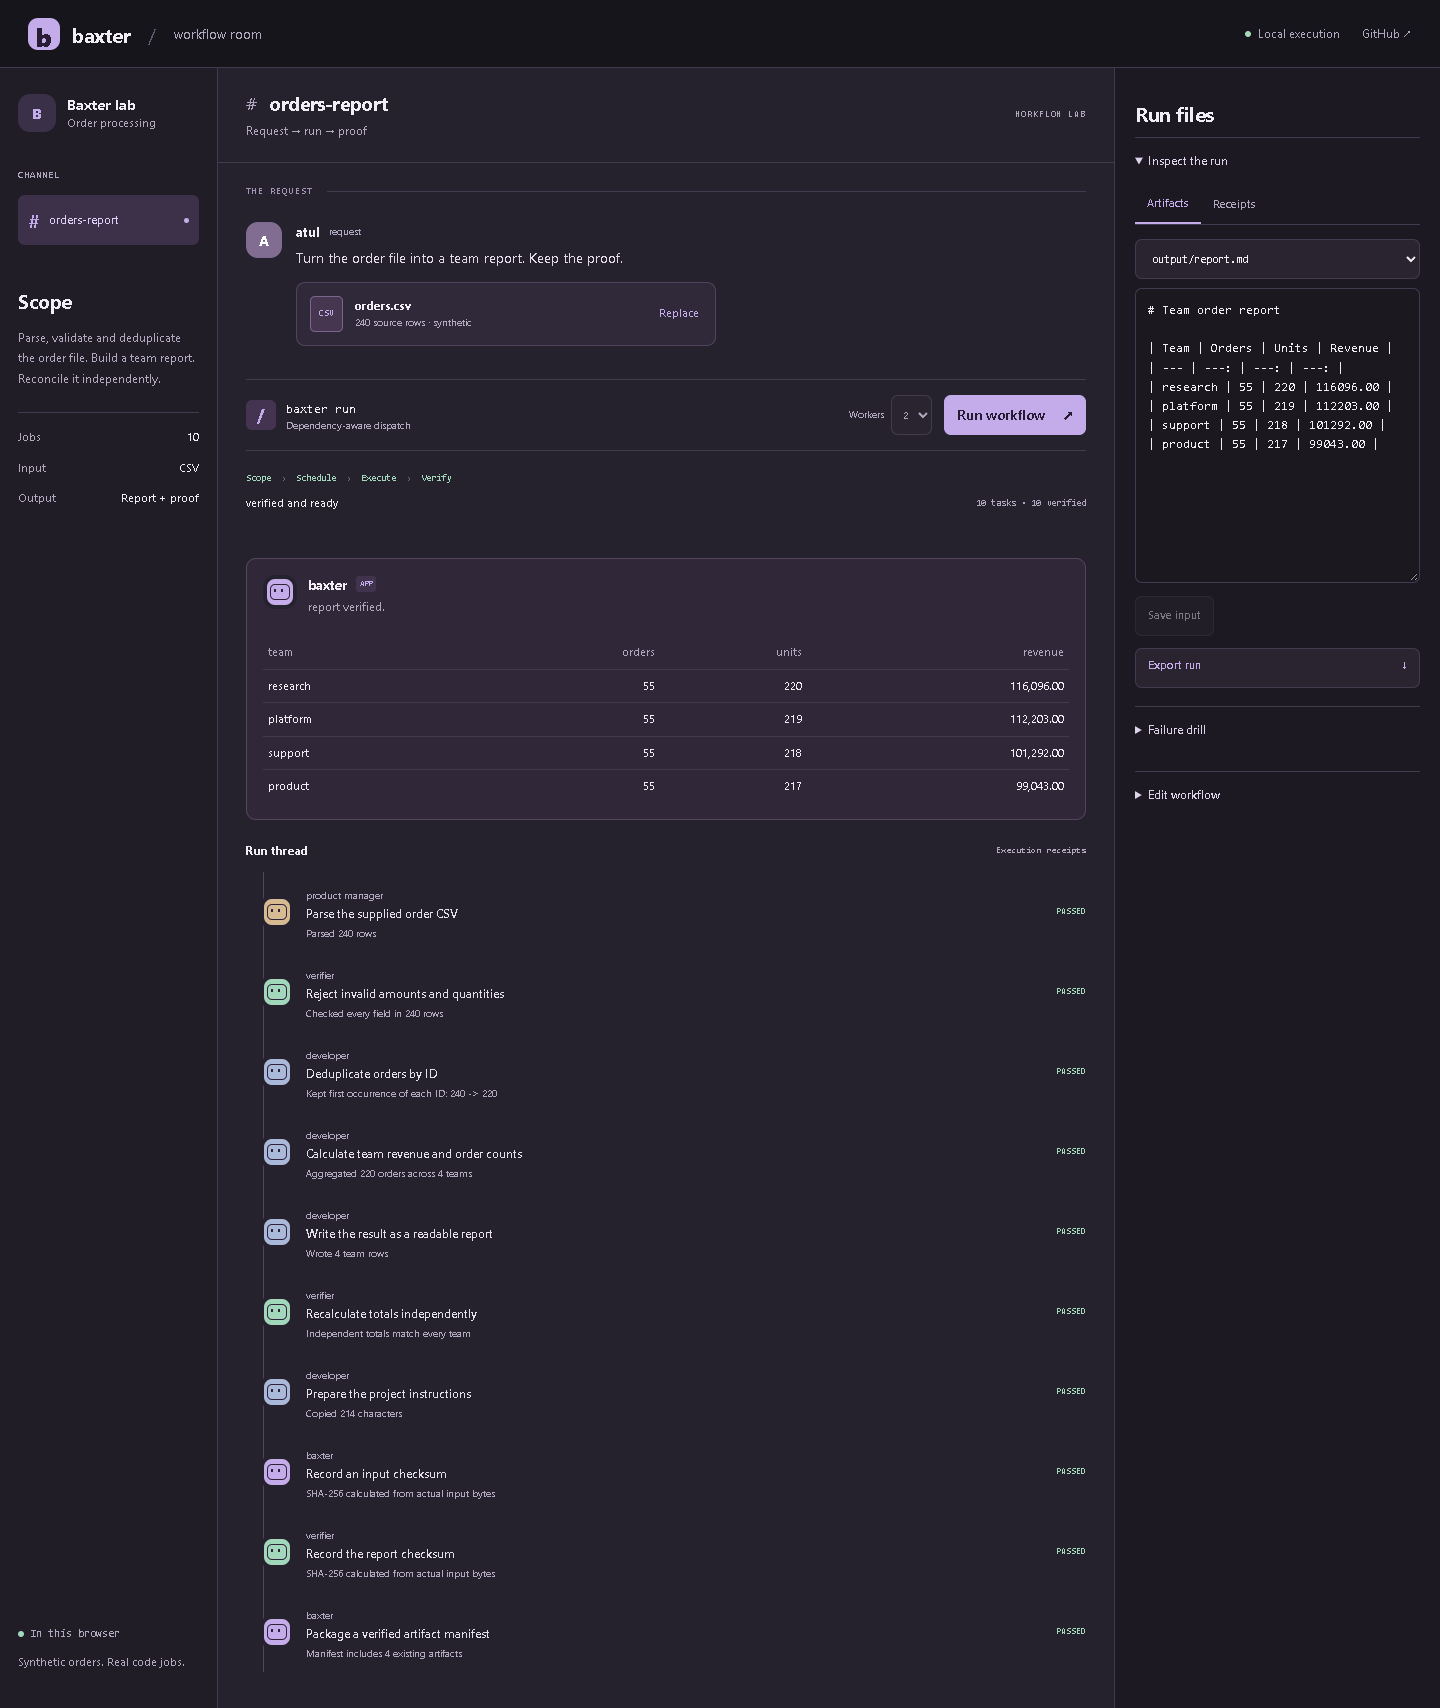
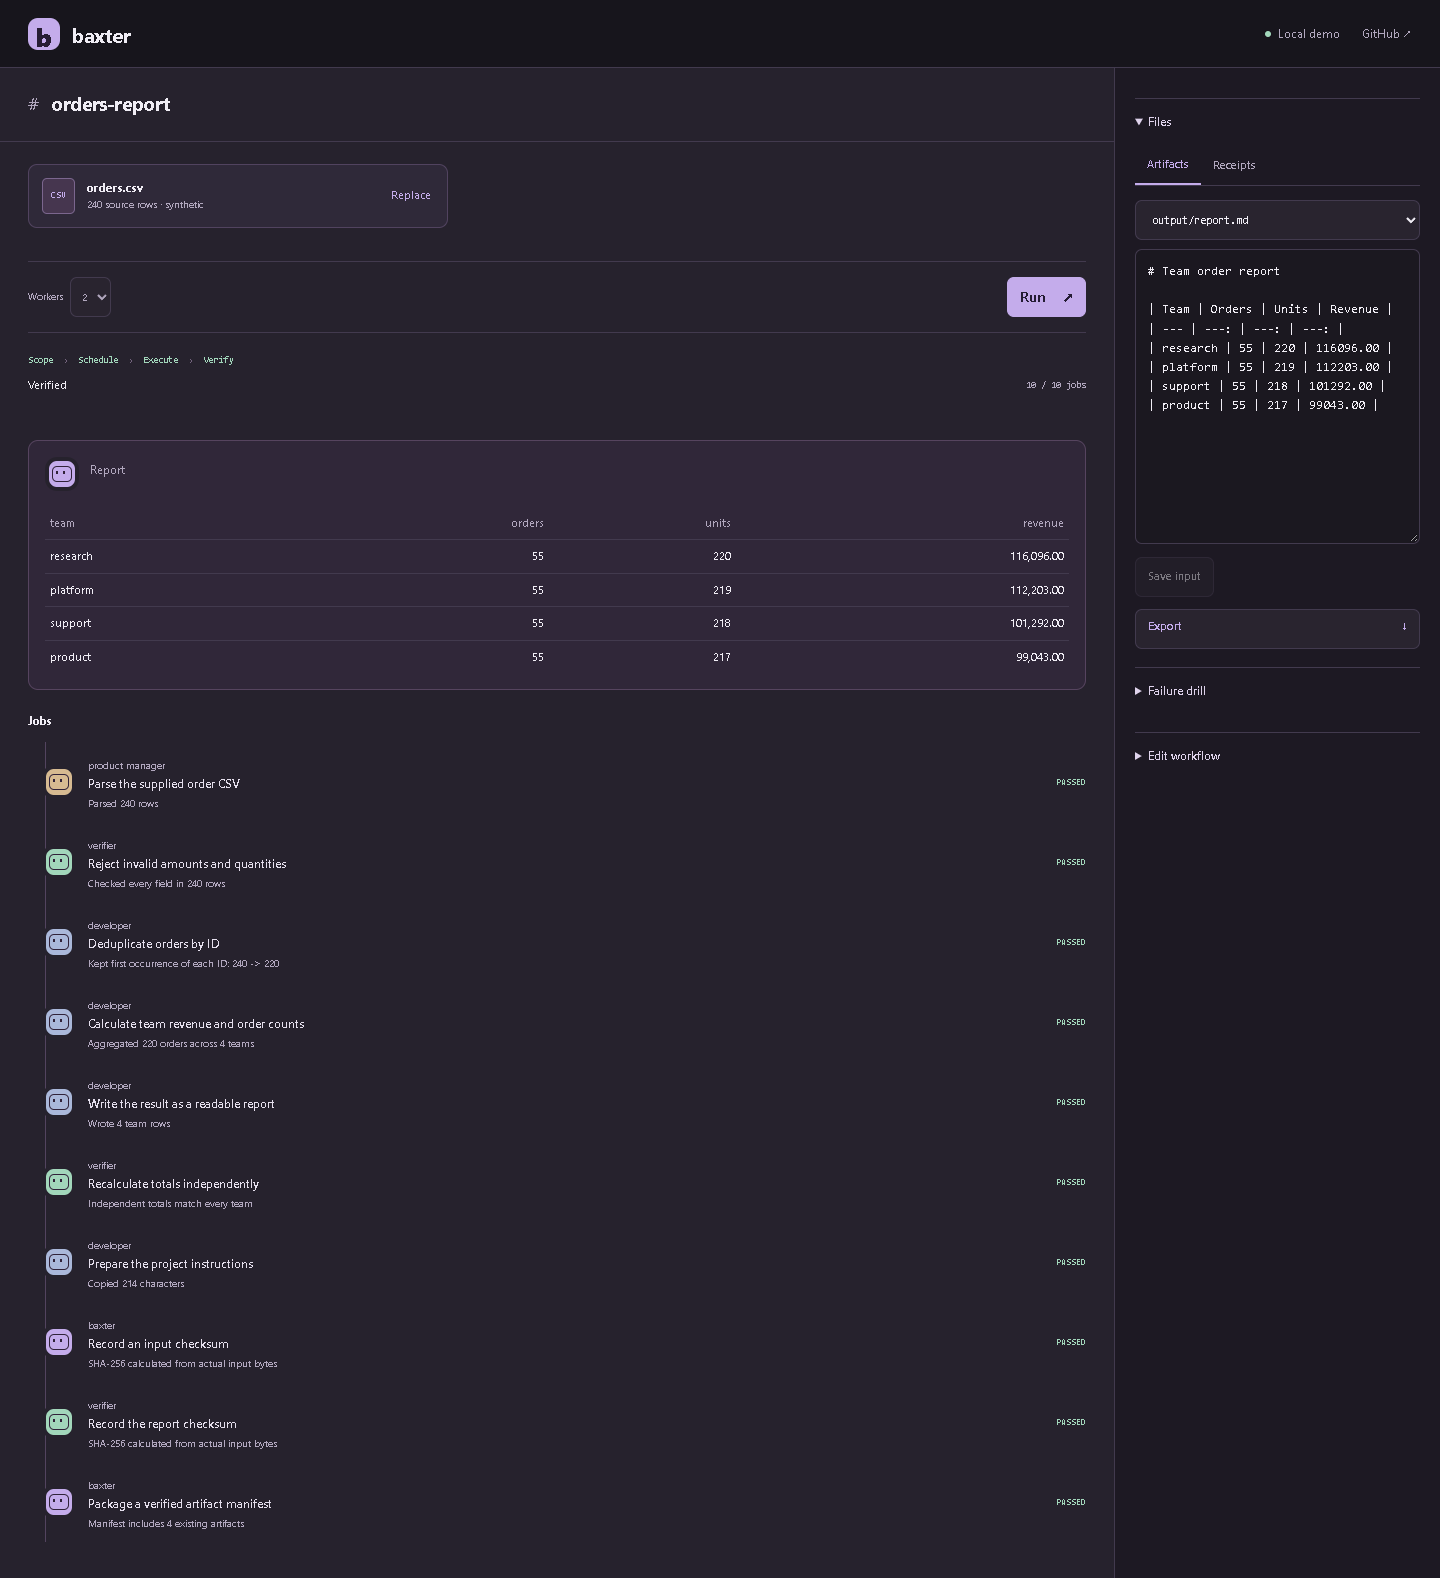
Cull workflow demo chrome and repeated copy

diff --git a/examples/portfolio/index.html b/examples/portfolio/index.html
@@ -1,11 +1,11 @@
 <!doctype html>
 <html lang="en"><head><meta charset="utf-8"><meta name="viewport" content="width=device-width,initial-scale=1"><meta name="theme-color" content="#19171e"><title>Baxter | Workflow room</title><link rel="icon" href="assets/favicon.svg" type="image/svg+xml"><link rel="stylesheet" href="style.css"></head>
-<body><header class="app-header"><a class="brand" href="https://lolstar123.github.io/just-a-little-further/"><span class="brand-mark">b</span>baxter<span class="brand-divider">/</span><span class="brand-context">workflow room</span></a><div class="header-links"><span class="local-badge">Local execution</span><a href="https://github.com/LolStar123/baxter">GitHub ↗</a></div></header>
-<main class="workspace"><aside class="scope-rail" aria-label="Workflow scope"><div class="workspace-name"><span class="room-icon">B</span><div><strong>Baxter lab</strong><small>Order processing</small></div></div><p class="eyebrow">CHANNEL</p><a class="channel-link" href="#channel"><span>#</span> orders-report <span class="live-dot"></span></a><section class="scope"><h2>Scope</h2><p>Parse, validate and deduplicate the order file. Build a team report. Reconcile it independently.</p><dl><div><dt>Jobs</dt><dd id="scope-jobs">10</dd></div><div><dt>Input</dt><dd>CSV</dd></div><div><dt>Output</dt><dd>Report + proof</dd></div></dl></section><div class="rail-footer"><span class="local-dot"></span> In this browser<p>Synthetic orders. Real code jobs.</p></div></aside>
-<section class="channel" id="channel" aria-labelledby="page-title"><div class="channel-head"><div><h1 id="page-title"><span>#</span> orders-report</h1><p>Request → run → proof</p></div><span class="channel-label">WORKFLOW LAB</span></div>
-<div class="conversation"><div class="thread-divider"><span>THE REQUEST</span></div><div class="request-message"><span class="atul-avatar" aria-hidden="true">A</span><div><div class="message-author"><strong>atul</strong><span>request</span></div><p>Turn the order file into a team report. Keep the proof.</p><div class="attachment"><span class="file-icon" aria-hidden="true">CSV</span><div><strong id="input-name">orders.csv</strong><small id="input-meta">240 source rows · synthetic</small></div><label class="attach-action">Replace<input id="input-file" type="file" accept=".csv,text/csv" aria-label="Replace order CSV"></label></div><p id="input-status" role="status"></p></div></div>
-<section class="run-bar" aria-label="Run controls"><div class="slash-command"><span>/</span><div><strong>baxter run</strong><small>Dependency-aware dispatch</small></div></div><label>Workers<select id="capacity" aria-label="Worker capacity"><option>1</option><option selected>2</option><option>3</option><option>4</option></select></label><button id="run" class="primary" disabled>Run workflow <span aria-hidden="true">↗</span></button><span id="progress"></span></section>
+<body><header class="app-header"><a class="brand" href="https://lolstar123.github.io/just-a-little-further/"><span class="brand-mark">b</span>baxter</a><div class="header-links"><span class="local-badge">Local demo</span><a href="https://github.com/LolStar123/baxter">GitHub ↗</a></div></header>
+<main class="workspace">
+<section class="channel" id="channel" aria-labelledby="page-title"><div class="channel-head"><div><h1 id="page-title"><span>#</span> orders-report</h1></div></div>
+<div class="conversation"><div class="request-message"><div><div class="attachment"><span class="file-icon" aria-hidden="true">CSV</span><div><strong id="input-name">orders.csv</strong><small id="input-meta">240 source rows · synthetic</small></div><label class="attach-action">Replace<input id="input-file" type="file" accept=".csv,text/csv" aria-label="Replace order CSV"></label></div><p id="input-status" role="status"></p></div></div>
+<section class="run-bar" aria-label="Run controls"><label>Workers<select id="capacity" aria-label="Worker capacity"><option>1</option><option selected>2</option><option>3</option><option>4</option></select></label><button id="run" class="primary" disabled>Run <span aria-hidden="true">↗</span></button></section>
 <div class="workflow-map" aria-label="Workflow stages"><span data-beat="scope">Scope</span><i aria-hidden="true">›</i><span data-beat="schedule">Schedule</span><i aria-hidden="true">›</i><span data-beat="execute">Execute</span><i aria-hidden="true">›</i><span data-beat="verify">Verify</span></div><div class="run-ledger"><span id="run-phase" role="status" aria-live="polite">Loading workflow</span><span id="run-count"></span></div><p id="status" role="status" aria-live="polite"></p>
-<section class="queue" aria-labelledby="queue-title"><div class="section-title"><h2 id="queue-title">Run thread</h2><span>Execution receipts</span></div><div id="tasks"></div></section>
-<section class="report-preview" aria-label="Report handoff"><div class="report-intro"><span class="baxter-avatar" aria-hidden="true"></span><div><div class="message-author"><strong>baxter</strong><small>APP</small></div><p id="output-summary">Run the workflow to produce a report.</p></div></div><div id="report-preview" hidden></div></section></div></section>
-<aside class="proof-rail" aria-label="Artifacts and verification"><div class="proof-heading"><h2>Run files</h2></div><details class="inspector" open><summary>Inspect the run</summary><div class="tabs"><button id="show-artifacts" aria-pressed="true">Artifacts</button><button id="show-receipts" aria-pressed="false">Receipts</button></div><div id="artifact-panel"><label for="file" class="sr-only">Select run file</label><select id="file"></select><label for="content" class="sr-only">File contents</label><textarea id="content" rows="14" spellcheck="false"></textarea><button id="save-input">Save input</button></div><div id="receipts" hidden></div><button id="export" class="export-button">Export run <span aria-hidden="true">↓</span></button></details><details><summary>Failure drill</summary><p class="detail-note">Make one quantity negative. Validation must reject the input.</p><button id="break">Break an input</button><button id="reset">Restore example</button></details><details><summary>Edit workflow</summary><label for="definitions" class="detail-note">Task definitions and dependencies</label><textarea id="definitions" rows="10" spellcheck="false"></textarea><button id="apply">Apply workflow</button><p id="task-error" role="status"></p></details></aside></main><script type="module" src="app.mjs"></script></body></html>
+<section class="queue" aria-labelledby="queue-title"><div class="section-title"><h2 id="queue-title">Jobs</h2></div><div id="tasks"></div></section>
+<section class="report-preview" aria-label="Report handoff"><div class="report-intro"><span class="baxter-avatar" aria-hidden="true"></span><div><p id="output-summary">Report</p></div></div><div id="report-preview" hidden></div></section></div></section>
+<aside class="proof-rail" aria-label="Artifacts and verification"><details class="inspector" open><summary>Files</summary><div class="tabs"><button id="show-artifacts" aria-pressed="true">Artifacts</button><button id="show-receipts" aria-pressed="false">Receipts</button></div><div id="artifact-panel"><label for="file" class="sr-only">Select run file</label><select id="file"></select><label for="content" class="sr-only">File contents</label><textarea id="content" rows="14" spellcheck="false"></textarea><button id="save-input">Save input</button></div><div id="receipts" hidden></div><button id="export" class="export-button">Export <span aria-hidden="true">↓</span></button></details><details><summary>Failure drill</summary><button id="break">Negative quantity</button><button id="reset">Reset</button></details><details><summary>Edit workflow</summary><label for="definitions" class="sr-only">Task definitions and dependencies</label><textarea id="definitions" rows="10" spellcheck="false"></textarea><button id="apply">Apply workflow</button><p id="task-error" role="status"></p></details></aside></main><script type="module" src="app.mjs"></script></body></html>

diff --git a/examples/portfolio/style.css b/examples/portfolio/style.css
@@ -137,7 +137,7 @@ textarea {
 }
 .workspace {
     display:grid;
-    grid-template-columns:218px minmax(0,1fr) 326px;
+    grid-template-columns:minmax(0,1fr) 326px;
     max-width:1800px;
     margin:auto;
     min-height:calc(100vh - 68px)
@@ -396,7 +396,7 @@ h1 span {
 }
 .run-bar {
     display:grid;
-    grid-template-columns:minmax(0,1fr) auto auto;
+    grid-template-columns:minmax(0,1fr) auto;
     gap:12px;
     align-items:center;
     padding:15px 0;
@@ -726,7 +726,7 @@ summary {
 }
 @media(max-width:1180px) {
     .workspace {
-        grid-template-columns:185px minmax(0,1fr) 285px
+        grid-template-columns:minmax(0,1fr) 285px
     }
     .scope-rail {
         padding-inline:14px
@@ -746,10 +746,10 @@ summary {
 }
 @media(max-width:950px) {
     .workspace {
-        grid-template-columns:175px minmax(0,1fr)
+        grid-template-columns:minmax(0,1fr)
     }
     .proof-rail {
-        grid-column:2;
+        grid-column:1;
         border-top:1px solid var(--line);
         border-left:0
     }

diff --git a/tools/browser_audit.py b/tools/browser_audit.py
@@ -18,13 +18,13 @@ try:
         page.goto(os.environ.get('AUDIT_URL',f'http://127.0.0.1:{server.server_port}'),wait_until='networkidle')
         page.wait_for_function('window.__baxter?.ready')
         assert page.locator('[data-beat="scope"]').get_attribute('data-state') == 'pending'
-        assert '10 tasks' in page.locator('#run-count').inner_text()
+        assert '10 jobs' in page.locator('#run-count').inner_text()
         page.locator('#run').click()
         page.wait_for_function('!__baxter.running && __baxter.receipts===10')
         assert page.evaluate('Object.values(__baxter.states).every(s=>s==="passed")')
         assert page.locator('[data-beat="scope"]').get_attribute('data-state') == 'passed'
         assert page.locator('[data-beat="verify"]').get_attribute('data-active') == 'true'
-        assert 'verified and ready' in page.locator('#run-phase').inner_text()
+        assert page.locator('#run-phase').inner_text() == 'Verified'
         assert page.locator('#status').inner_text() == ''
         assert page.locator('.report-preview').bounding_box()['y'] < page.locator('.queue').bounding_box()['y']
         assert 'Team order report' in page.locator('#content').input_value()
@@ -38,7 +38,7 @@ try:
         assert page.evaluate('__baxter.states.schema')=='failed'
         assert page.evaluate('__baxter.states.package')=='blocked'
         assert page.locator('#report-preview').is_hidden()
-        assert 'blocked' in page.locator('#output-summary').inner_text()
+        assert page.locator('#run-phase').inner_text() == 'Blocked'
         (ROOT/'output'/'playwright').mkdir(parents=True,exist_ok=True)
         page.screenshot(path=str(ROOT/'output'/'playwright'/'failure.png'),full_page=True)
         page.locator('#reset').click();page.locator('#run').click()
